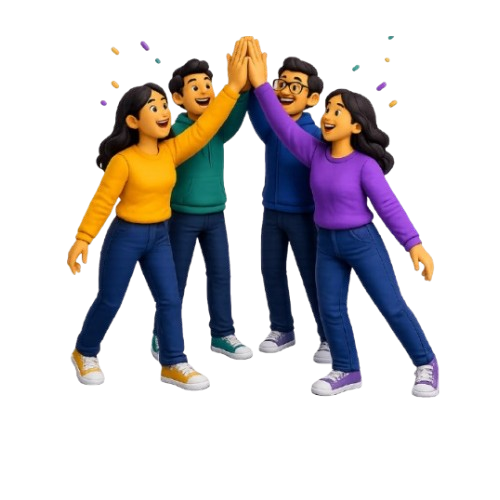
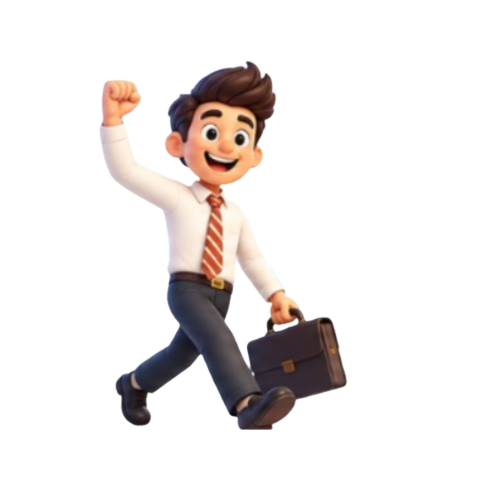
confusion journey_photo_change

diff --git a/src/components/CollegeSpotlight/CollegeSpotlight.jsx b/src/components/CollegeSpotlight/CollegeSpotlight.jsx
@@ -66,7 +66,9 @@ export default function CollegeSpotlight() {
   return (
     <section className="mmc-spot-section">
       <div className="container">
-        
+        <div>
+        <span className="mmc-spot-eyebrow">Colleges for you</span>
+        </div>
 
         {/* ---------- Choose your area of interest ---------- */}
         <h3 className="mmc-spot-subhead">Choose your <span>area of interest</span></h3>
@@ -154,7 +156,6 @@ export default function CollegeSpotlight() {
 
         <div className="mmc-spot-head">
           <div>
-            <span className="mmc-spot-eyebrow">Colleges for you</span>
             <h2>Explore, filter &amp; <span className="mmc-spot-grad">compare</span> colleges</h2>
             <p>Fees, placements, hostel options and accreditation - laid out side by side so you can decide with confidence.</p>
           </div>
